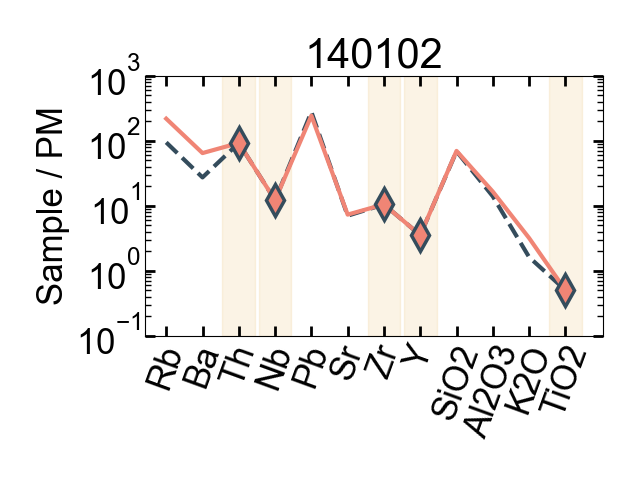
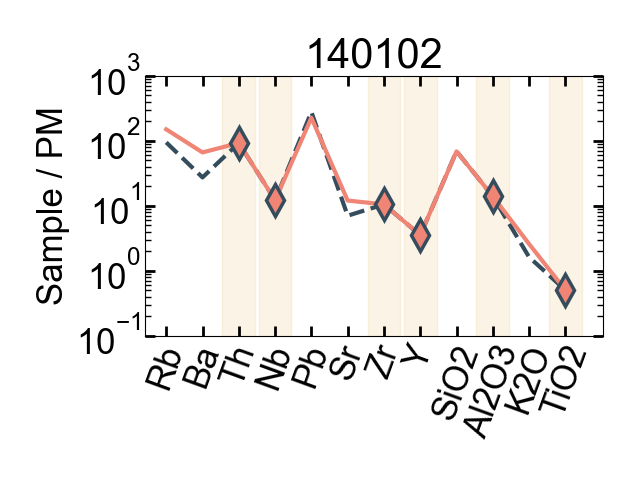
241211_Bag_Correction
2024/12/11 Correction to Bag: R^2 factor miscalculation (Matsuno+ 2022 values is correct), PM normalized Ratio data (e.g., "Zr_") incorrection.

diff --git a/PRM_Explain_Library.py b/PRM_Explain_Library.py
@@ -111,7 +111,7 @@ def Error_Distribution_Figure(path_model, path, mobile_elem_all, good_range_elem
             data['Tectonic setting'] = data['SAMPLE_INFO']
 
             # 相関係数を求める
-            corr_each_elem = data[['RAW', 'predict']].apply(lambda x : np.log10(x)).corr().loc['RAW']['predict']
+            corr_each_elem = r2_score(data['RAW'].apply(lambda x : np.log10(x)), data['predict'].apply(lambda x : np.log10(x)))
 
             ################################################################ Setting
             #元素によって範囲を変更 histgram
@@ -218,7 +218,7 @@ def Usual_Scatter_Plot(path_model, path, mobile_elem_all, good_range_elem, TECTO
 
         # 相関係数を求める
         corr_each_elem = r2_score(data['RAW'].apply(lambda x : np.log10(x)), data['predict'].apply(lambda x : np.log10(x)))
-        corr_compile.loc['R2_score',define_mobile_elem]=corr_each_elem*corr_each_elem
+        corr_compile.loc['R2_score',define_mobile_elem]=corr_each_elem
         print(corr_compile.loc['R2_score',define_mobile_elem])
         ################################################################ Setting
         legend_flag = False
@@ -251,7 +251,7 @@ def Usual_Scatter_Plot(path_model, path, mobile_elem_all, good_range_elem, TECTO
         ax.tick_params(which = 'minor', length = font_size_label/6, width = font_size_label/30)
         ax.get_xaxis().set_tick_params(pad=font_size_label/2)
 
-        ax.text(0.95, 0.05, 'R={:.3f}'.format(corr_each_elem), horizontalalignment='right', transform=ax.transAxes, fontsize = 50)
+        ax.text(0.95, 0.05, r'$R^2={:.3f}$'.format(corr_each_elem), horizontalalignment='right', transform=ax.transAxes, fontsize = 50)
 
     plt.tight_layout()
     plt.savefig(now_figure_path+'/0_raw_vs_predict.pdf', bbox_inches='tight')
@@ -320,6 +320,11 @@ def NGBoost_Scatter_Plot(path_model, path, mobile_elem_all, good_range_elem, TEC
         data['Tectonic setting_num'] = data['SAMPLE_INFO']
         data["RAW"] = data["RAW"].apply(lambda x : np.log10(x))
         data["predict"] = data["predict"].apply(lambda x : np.log10(x))
+
+        # 相関係数を求める
+        corr_each_elem = r2_score(data['RAW'], data['predict'])
+        corr_compile.loc['R2_score',define_mobile_elem]=corr_each_elem
+        print(corr_compile.loc['R2_score',define_mobile_elem])
         ################################################################ Setting
         legend_flag = False
         if define_mobile_elem == 'Rb':
@@ -351,10 +356,17 @@ def NGBoost_Scatter_Plot(path_model, path, mobile_elem_all, good_range_elem, TEC
         ax.tick_params(which = 'major', length = font_size_label/3, width = font_size_label/15)
         ax.tick_params(which = 'minor', length = font_size_label/6, width = font_size_label/30)
         ax.get_xaxis().set_tick_params(pad=font_size_label/2)
+
+        ax.text(0.95, 0.05, r'$R^2={:.3f}$'.format(corr_each_elem), horizontalalignment='right', transform=ax.transAxes, fontsize = 50)
+
     plt.tight_layout()
     plt.savefig(now_figure_path+'/0_raw_vs_predict_std_color.pdf', bbox_inches='tight')
     plt.savefig(now_figure_path+'/0_raw_vs_predict_std_color.jpg', bbox_inches='tight')
     st.pyplot(fig)
     plt.clf()
     plt.close()
+
+    ##output corr
+    corr_compile.to_excel(now_figure_path+'/0_corr_compile.xlsx')
+    corr_compile
 

diff --git a/0_BASE_Model_Construction.py b/0_BASE_Model_Construction.py
@@ -224,12 +224,19 @@ if PRM_construction_Setting == 'Ratio':
     mobile_elem_all = elem_all
     Whole_rock_RAW = pd.concat([Whole_rock_RAW, duplicates_df], axis=1)
 
+    # Compile ratio data
+    ratio_self_est = duplicates
+    ratio_self_est_name = [elem + '_' for elem in duplicates]
+
 #### list elem_allに入っていない要素をWhole_rock_after_Normalize_PM.columnsから見つけ出す
 # 基本的にはMajor元素に対する処理
 columns = Whole_rock_after_Normalize_PM.columns
 # elem_all に含まれている要素で、columns に含まれていない要素を探す
 missing_elements = [elem for elem in elem_all if elem not in columns]
-Whole_rock_after_Normalize_PM[missing_elements] = Whole_rock_RAW[missing_elements].copy() # Majoprを入れる
+Whole_rock_after_Normalize_PM[missing_elements] = Whole_rock_RAW[missing_elements].copy() # Majorを入れる
+
+"""ver 241211 Modified for Ratio data -> PM Normalizeを実装: いままではPM normalizeせずにモデルを構築していた""" 
+Whole_rock_after_Normalize_PM[ratio_self_est_name] = Whole_rock_RAW[ratio_self_est].copy() # ex. "Zr_"もノーマライズされた値によって推定
 #### list elem_allに入っていない要素をWhole_rock_after_Normalize_PM.columnsから見つけ出す
 
 #### Compile use data

diff --git a/PRM_liblary.py b/PRM_liblary.py
@@ -427,14 +427,23 @@ def Spidergram_ragne_as_error_bar(data, range, scale, legend, color, style, labe
 
 
 
-def PM_to_ppm(data):
+def PM_to_ppm(data): # ver 241211
     now_data = data.copy()
     for_normalize_data = pd.read_excel("List/Primitive_Mantle _ C1 Chondrite.xlsx", index_col=0)
     for_normalize_data = for_normalize_data.loc["PM(SM89)"]
     for elem in data.columns:
-        try:
+        # 普通のデータの処理
+        try: 
             value=for_normalize_data[elem]
             now_data[elem]= now_data[elem]*value
+        except:
+            print("This elem do not have value of PM: " + elem)
+
+        # Ratio dataに対する処理　ex. Zr -> Zr_ として記録されている
+        elem_ratio = elem + "_"
+        try: # 普通のデータの処理
+            value=for_normalize_data[elem] # ここは、通常のelemを使って、elemのPM valueを抽出
+            now_data[elem_ratio]= now_data[elem_ratio]*value
         except:
             print("This elem do not have value of PM: " + elem)
 

diff --git a/README.md b/README.md
@@ -20,6 +20,7 @@ This application not only allows users to **easily handle PRMs** through a user-
 
 Current status: Almost update have already finished (2024/09/18).
 
+2024/12/11 Correction to Bag: R^2 factor miscalculation (Matsuno+ 2022 values is correct), PM normalized Ratio data (e.g., "Zr_") incorrection.
 2024/09/15 ver1.3 **Major Update**: Model construction based on GUI are enable
 
 2023/11/23 The first release of PRMs
